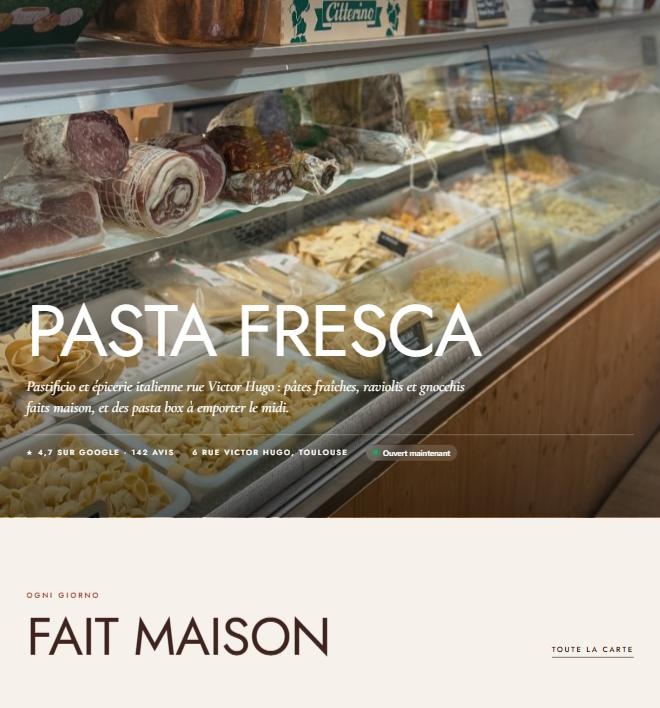
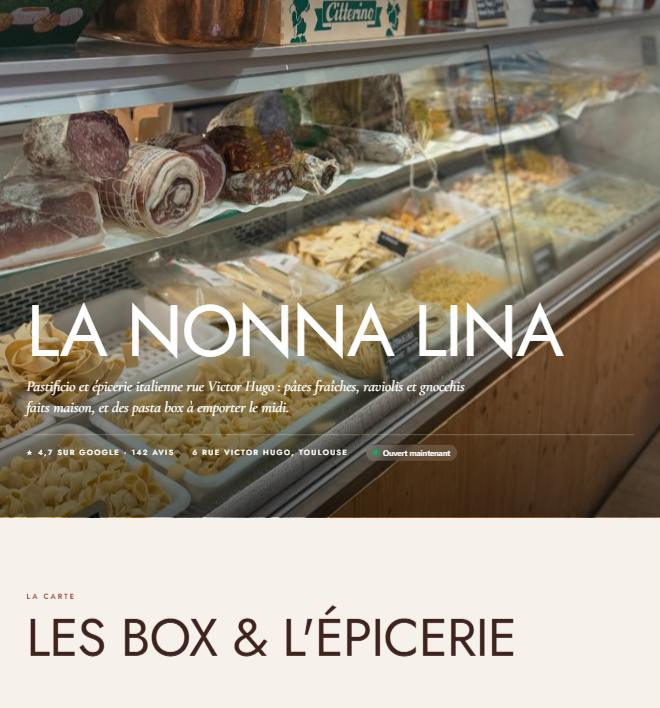
La Nonna Lina: client-test corrections (own photos only, no invented claims)

diff --git a/la-nonna-lina/v2/index.html b/la-nonna-lina/v2/index.html
@@ -150,21 +150,10 @@
 </div></header>
 <main id="top">
 <section class="hero" style="padding:0"><img src="../img/opt/g-pates-1600.jpg" srcset="../img/opt/g-pates-800.jpg 800w, ../img/opt/g-pates-1600.jpg 1600w" sizes="100vw" alt="Pâtes fraîches de La Nonna Lina" fetchpriority="high" decoding="async"><div class="wrap">
-  <h1>Pasta fresca</h1>
+  <h1>La Nonna Lina</h1>
   <p>Pastificio et épicerie italienne rue Victor Hugo : pâtes fraîches, raviolis et gnocchis faits maison, et des pasta box à emporter le midi.</p>
   <div class="line"><span>★ 4,7 sur Google · 142 avis</span><span>6 rue Victor Hugo, Toulouse</span><span class="open-badge"><i></i><span>Horaires</span></span></div>
 </div></section>
-
-<section><div class="wrap">
-  <div class="split"><div><div class="label reveal">Ogni giorno</div><h2 class="reveal">Fait maison</h2></div><a class="more" href="#carte">Toute la carte</a></div>
-  <div class="strip"><figure class="reveal"><div class="ph"><img src="../img/opt/g-pates-1600.jpg" srcset="../img/opt/g-pates-800.jpg 800w, ../img/opt/g-pates-1600.jpg 1600w" sizes="(max-width:900px) 70vw, 25vw" alt="Pâtes fraîches" loading="lazy" decoding="async"></div><figcaption><span>Pâtes fraîches</span><small>du jour</small></figcaption></figure><figure class="reveal"><div class="ph"><img src="../img/opt/ravioli-1600.jpg" srcset="../img/opt/ravioli-800.jpg 800w, ../img/opt/ravioli-1600.jpg 1600w" sizes="(max-width:900px) 70vw, 25vw" alt="Raviolis" loading="lazy" decoding="async"></div><figcaption><span>Raviolis</span><small>faits maison</small></figcaption></figure><figure class="reveal"><div class="ph"><img src="../img/opt/g-comptoir-1600.jpg" srcset="../img/opt/g-comptoir-800.jpg 800w, ../img/opt/g-comptoir-1600.jpg 1600w" sizes="(max-width:900px) 70vw, 25vw" alt="Salumi &amp; pâtes" loading="lazy" decoding="async"></div><figcaption><span>Salumi &amp; pâtes</span><small>au comptoir</small></figcaption></figure><figure class="reveal"><div class="ph"><img src="../img/opt/gnocchi-1600.jpg" srcset="../img/opt/gnocchi-800.jpg 800w, ../img/opt/gnocchi-1600.jpg 1600w" sizes="(max-width:900px) 70vw, 25vw" alt="Gnocchis" loading="lazy" decoding="async"></div><figcaption><span>Gnocchis</span><small>faits maison</small></figcaption></figure></div>
-</div></section>
-
-<section id="maison" style="padding-top:0"><div class="wrap story">
-  <div class="reveal"><img src="../img/opt/g-devanture-1600.jpg" srcset="../img/opt/g-devanture-800.jpg 800w, ../img/opt/g-devanture-1600.jpg 1600w" sizes="(max-width:900px) 100vw, 50vw" alt="La boutique La Nonna Lina, rue Victor Hugo" loading="lazy" decoding="async"></div>
-  <div class="reveal"><div class="label">Il pastificio</div><p class="big">Un petit bout d'Italie au centre de Toulouse, où l'on vient chercher ses pâtes comme chez la nonna.</p><p>Chez La Nonna Lina, tout est fait maison et cuisiné avec amour : pâtes fraîches et originales, raviolis, gnocchis, lasagnes, et une épicerie fine pleine de produits italiens choisis avec soin.</p></div>
-</div></section>
-
 <section class="carte-wrap" id="carte"><div class="wrap">
   <div class="label reveal">La carte</div><h2 class="reveal">Les box &amp; l'épicerie</h2>
   <div class="reveal"><div class="tabs" role="tablist" aria-label="Catégories de la carte">
@@ -178,14 +167,24 @@
   </div><div class="tab-panel" role="tabpanel" id="p-et-aussi" aria-labelledby="t-et-aussi" data-hide>
     <div class="panel-grid">
       <figure class="panel-img"><img src="../img/opt/g-comptoir-1600.jpg" srcset="../img/opt/g-comptoir-800.jpg 800w, ../img/opt/g-comptoir-1600.jpg 1600w" sizes="(max-width:900px) 100vw, 40vw" alt="Et aussi" loading="lazy" decoding="async"></figure>
-      <ul class="items"><li><div class="row"><span class="name">La boisson</span><span class="dots" aria-hidden="true"></span><span class="price">1 €</span></div></li><li><div class="row"><span class="name">Le dessert</span><span class="dots" aria-hidden="true"></span><span class="price">2,50 €</span></div></li><li><div class="row"><span class="name">Pâtes fraîches, raviolis, gnocchis</span></div><p class="desc">Faits maison, à cuisiner chez vous</p></li><li><div class="row"><span class="name">Épicerie fine italienne</span></div><p class="desc">Charcuterie, fromages, huiles, sauces, douceurs</p></li></ul>
+      <ul class="items"><li><div class="row"><span class="name">La boisson</span><span class="dots" aria-hidden="true"></span><span class="price">1 €</span></div></li><li><div class="row"><span class="name">Le dessert</span><span class="dots" aria-hidden="true"></span><span class="price">2,50 €</span></div></li><li><div class="row"><span class="name">Pâtes fraîches, raviolis, gnocchis</span></div><p class="desc">Faits maison, à cuisiner chez vous</p></li><li><div class="row"><span class="name">Sélection italienne</span></div><p class="desc">Charcuterie, fromages, huiles, sauces, douceurs</p></li></ul>
     </div>
   </div>
   <p class="menu-note">Box servies du mardi au vendredi, de 12 h à 14 h.</p></div>
 </div></section>
+<section><div class="wrap">
+  <div class="split"><div><div class="label reveal">Ogni giorno</div><h2 class="reveal">Fait maison</h2></div><a class="more" href="#carte">Toute la carte</a></div>
+  <div class="strip"><figure class="reveal"><div class="ph"><img src="../img/opt/g-pates-1600.jpg" srcset="../img/opt/g-pates-800.jpg 800w, ../img/opt/g-pates-1600.jpg 1600w" sizes="(max-width:900px) 70vw, 25vw" alt="Pâtes fraîches" loading="lazy" decoding="async"></div><figcaption><span>Pâtes fraîches</span><small>faites maison</small></figcaption></figure><figure class="reveal"><div class="ph"><img src="../img/opt/g-comptoir-1600.jpg" srcset="../img/opt/g-comptoir-800.jpg 800w, ../img/opt/g-comptoir-1600.jpg 1600w" sizes="(max-width:900px) 70vw, 25vw" alt="Le comptoir" loading="lazy" decoding="async"></div><figcaption><span>Le comptoir</span><small>salumi &amp; pâtes</small></figcaption></figure><figure class="reveal"><div class="ph"><img src="../img/opt/g-panier-1600.jpg" srcset="../img/opt/g-panier-800.jpg 800w, ../img/opt/g-panier-1600.jpg 1600w" sizes="(max-width:900px) 70vw, 25vw" alt="Produits italiens" loading="lazy" decoding="async"></div><figcaption><span>Produits italiens</span><small>sélectionnés</small></figcaption></figure><figure class="reveal"><div class="ph"><img src="../img/opt/g-boutique-1600.jpg" srcset="../img/opt/g-boutique-800.jpg 800w, ../img/opt/g-boutique-1600.jpg 1600w" sizes="(max-width:900px) 70vw, 25vw" alt="La boutique" loading="lazy" decoding="async"></div><figcaption><span>La boutique</span><small>rue Victor Hugo</small></figcaption></figure></div>
+</div></section>
+
+<section id="maison" style="padding-top:0"><div class="wrap story">
+  <div class="reveal"><img src="../img/opt/g-devanture-1600.jpg" srcset="../img/opt/g-devanture-800.jpg 800w, ../img/opt/g-devanture-1600.jpg 1600w" sizes="(max-width:900px) 100vw, 50vw" alt="La boutique La Nonna Lina, rue Victor Hugo" loading="lazy" decoding="async"></div>
+  <div class="reveal"><div class="label">Il pastificio</div><p class="big">Un petit bout d'Italie au centre de Toulouse, où l'on vient chercher ses pâtes comme chez la nonna.</p><p>Chez La Nonna Lina, tout est fait maison et cuisiné avec amour : pâtes fraîches et originales, raviolis, gnocchis, lasagnes, et une épicerie fine pleine de produits italiens choisis avec soin.</p></div>
+</div></section>
+
 
 <section class="quote" id="avis"><div class="wrap reveal">
-  <blockquote>“Incontestablement la meilleure épicerie italienne de Toulouse ! Des pâtes originales et hyper fraîches, des produits de qualité et une équipe super accueillante.”</blockquote><cite>Anaëlle M. · avis Google · 4,7/5 sur 142 avis</cite>
+  <blockquote>“Incontestablement la meilleure épicerie italienne de Toulouse ! Des pâtes originales et hyper fraîches, des produits de qualité et une équipe super accueillante.”</blockquote><cite>Anaëlle M. · avis Google · 4,7/5 sur 142 avis</cite><blockquote style="font-size:clamp(22px,2.8vw,34px);margin-top:46px">“Super magasin où l'on trouve des pâtes et raviolis frais. La qualité est au rendez-vous, on n'est jamais déçu.”</blockquote><cite>Jean-Marie B. · avis Google</cite>
 </div></section>
 
 <section id="infos"><div class="wrap visit">
@@ -196,8 +195,8 @@
   <div class="map reveal"><iframe title="Plan d'accès La Nonna Lina" loading="lazy" src="https://maps.google.com/maps?q=La%20Nonna%20Lina%2C%206%20rue%20Victor%20Hugo%2C%2031000%20Toulouse&z=16&output=embed"></iframe></div>
 </div></section>
 </main>
-<footer><div class="wrap"><span>© 2026 La Nonna Lina · 6 rue Victor Hugo, 31000 Toulouse</span><span>Pastificio · Épicerie italienne</span></div></footer>
-<p class="demo-note">Démo préparée pour La Nonna Lina par Uimad Studio. Ce n'est pas le site officiel. Photos de la fiche Google de La Nonna Lina (raviolis et gnocchis : photos d'illustration).</p>
+<footer><div class="wrap"><span>Maquette non publiée · La Nonna Lina · 6 rue Victor Hugo, 31000 Toulouse</span><span>Pastificio · Épicerie italienne</span></div></footer>
+<p class="demo-note">Démo préparée pour La Nonna Lina par Uimad Studio. Ce n'est pas le site officiel. Photos de la fiche Google de La Nonna Lina.</p>
 <nav class="actionbar" aria-label="Actions rapides"><a class="main" href="tel:+33534446197">Appeler la boutique</a><a class="alt" href="mailto:ciao@lanonnalina.com">Écrire</a><a class="alt" href="https://www.google.com/maps/search/?api=1&query=La%20Nonna%20Lina%2C%206%20rue%20Victor%20Hugo%2C%2031000%20Toulouse">Itinéraire</a></nav>
 <script>
 document.documentElement.classList.add("js");

diff --git a/la-nonna-lina/v3/index.html b/la-nonna-lina/v3/index.html
@@ -158,7 +158,7 @@
 <main id="top">
 <div class="wrap"><section class="hero">
   <div class="reveal">
-    <h1>Des pâtes fraîches<br><em>comme chez la nonna</em>,<br>à deux pas du Capitole</h1>
+    <h1>Des pâtes fraîches<br><em>comme chez la nonna</em></h1>
     <p class="lead">Pastificio et épicerie italienne rue Victor Hugo : pâtes fraîches, raviolis et gnocchis faits maison, et des pasta box à emporter le midi.</p>
     <div class="btns"><a class="btn main" href="#carte">Voir la carte</a><a class="btn alt" href="https://www.google.com/maps/search/?api=1&query=La%20Nonna%20Lina%2C%206%20rue%20Victor%20Hugo%2C%2031000%20Toulouse">Itinéraire</a></div>
     <div class="chips"><span>Fait maison</span><span>Pasta box 9 €</span><span>Raviolis &amp; gnocchis</span><span>Épicerie fine</span></div>
@@ -169,12 +169,12 @@
 </section></div>
 
 <section id="maison" style="padding-top:10px"><div class="wrap">
-  <h2 class="reveal">Au comptoir aujourd'hui</h2><p class="sub reveal">Pâtes fraîches, raviolis, gnocchis et produits italiens.</p>
-  <div class="cards"><article class="card reveal"><img src="../img/opt/g-pates-1600.jpg" srcset="../img/opt/g-pates-800.jpg 800w, ../img/opt/g-pates-1600.jpg 1600w" sizes="(max-width:900px) 92vw, 25vw" alt="Pâtes fraîches" loading="lazy" decoding="async"><div><b>Pâtes fraîches</b><span>Originales, à cuisiner le jour même.</span></div></article><article class="card reveal"><img src="../img/opt/ravioli-1600.jpg" srcset="../img/opt/ravioli-800.jpg 800w, ../img/opt/ravioli-1600.jpg 1600w" sizes="(max-width:900px) 92vw, 25vw" alt="Raviolis" loading="lazy" decoding="async"><div><b>Raviolis</b><span>Les préférés de nos clients.</span></div></article><article class="card reveal"><img src="../img/opt/g-comptoir-1600.jpg" srcset="../img/opt/g-comptoir-800.jpg 800w, ../img/opt/g-comptoir-1600.jpg 1600w" sizes="(max-width:900px) 92vw, 25vw" alt="Salumi &amp; formaggi" loading="lazy" decoding="async"><div><b>Salumi &amp; formaggi</b><span>La charcuterie et les fromages italiens.</span></div></article><article class="card reveal"><img src="../img/opt/gnocchi-1600.jpg" srcset="../img/opt/gnocchi-800.jpg 800w, ../img/opt/gnocchi-1600.jpg 1600w" sizes="(max-width:900px) 92vw, 25vw" alt="Gnocchis" loading="lazy" decoding="async"><div><b>Gnocchis</b><span>Faits maison.</span></div></article></div>
+  <h2 class="reveal">Au comptoir</h2><p class="sub reveal">Pâtes fraîches, raviolis, gnocchis et produits italiens.</p>
+  <div class="cards"><article class="card reveal"><img src="../img/opt/g-pates-1600.jpg" srcset="../img/opt/g-pates-800.jpg 800w, ../img/opt/g-pates-1600.jpg 1600w" sizes="(max-width:900px) 92vw, 25vw" alt="Pâtes fraîches" loading="lazy" decoding="async"><div><b>Pâtes fraîches</b><span>Faites maison.</span></div></article><article class="card reveal"><img src="../img/opt/g-comptoir-1600.jpg" srcset="../img/opt/g-comptoir-800.jpg 800w, ../img/opt/g-comptoir-1600.jpg 1600w" sizes="(max-width:900px) 92vw, 25vw" alt="Salumi &amp; formaggi" loading="lazy" decoding="async"><div><b>Salumi &amp; formaggi</b><span>La charcuterie et les fromages italiens.</span></div></article><article class="card reveal"><img src="../img/opt/g-panier-1600.jpg" srcset="../img/opt/g-panier-800.jpg 800w, ../img/opt/g-panier-1600.jpg 1600w" sizes="(max-width:900px) 92vw, 25vw" alt="Épicerie fine" loading="lazy" decoding="async"><div><b>Épicerie fine</b><span>Huiles, sauces, douceurs italiennes.</span></div></article><article class="card reveal"><img src="../img/opt/g-boutique-1600.jpg" srcset="../img/opt/g-boutique-800.jpg 800w, ../img/opt/g-boutique-1600.jpg 1600w" sizes="(max-width:900px) 92vw, 25vw" alt="La boutique" loading="lazy" decoding="async"><div><b>La boutique</b><span>6 rue Victor Hugo.</span></div></article></div>
 </div></section>
 
 <section class="menu-sec" id="carte"><div class="wrap">
-  <h2 class="reveal">Les box du midi</h2><p class="sub reveal">Box servies du mardi au vendredi, de 12 h à 14 h.</p>
+  <h2 class="reveal">La carte</h2><p class="sub reveal">Box du midi et épicerie, aux prix affichés en boutique.</p>
   <div class="reveal"><div class="tabs" role="tablist" aria-label="Catégories de la carte">
     <button class="tab" role="tab" id="t-les-box-du-midi" aria-controls="p-les-box-du-midi" aria-selected="true" tabindex="0">Les box du midi</button><button class="tab" role="tab" id="t-et-aussi" aria-controls="p-et-aussi" aria-selected="false" tabindex="-1">Et aussi</button>
   </div>
@@ -186,15 +186,15 @@
   </div><div class="tab-panel" role="tabpanel" id="p-et-aussi" aria-labelledby="t-et-aussi" data-hide>
     <div class="panel-grid">
       <figure class="panel-img"><img src="../img/opt/g-comptoir-1600.jpg" srcset="../img/opt/g-comptoir-800.jpg 800w, ../img/opt/g-comptoir-1600.jpg 1600w" sizes="(max-width:900px) 92vw, 40vw" alt="Et aussi" loading="lazy" decoding="async"></figure>
-      <ul class="items"><li><div class="row"><span class="name">La boisson</span><span class="dots" aria-hidden="true"></span><span class="price">1 €</span></div></li><li><div class="row"><span class="name">Le dessert</span><span class="dots" aria-hidden="true"></span><span class="price">2,50 €</span></div></li><li><div class="row"><span class="name">Pâtes fraîches, raviolis, gnocchis</span></div><p class="desc">Faits maison, à cuisiner chez vous</p></li><li><div class="row"><span class="name">Épicerie fine italienne</span></div><p class="desc">Charcuterie, fromages, huiles, sauces, douceurs</p></li></ul>
+      <ul class="items"><li><div class="row"><span class="name">La boisson</span><span class="dots" aria-hidden="true"></span><span class="price">1 €</span></div></li><li><div class="row"><span class="name">Le dessert</span><span class="dots" aria-hidden="true"></span><span class="price">2,50 €</span></div></li><li><div class="row"><span class="name">Pâtes fraîches, raviolis, gnocchis</span></div><p class="desc">Faits maison, à cuisiner chez vous</p></li><li><div class="row"><span class="name">Sélection italienne</span></div><p class="desc">Charcuterie, fromages, huiles, sauces, douceurs</p></li></ul>
     </div>
   </div>
   <p class="menu-note">Box servies du mardi au vendredi, de 12 h à 14 h.</p></div>
 </div></section>
 
 <section><div class="wrap">
-  <h2 class="reveal">Votre pasta box en 3 étapes</h2><p class="sub reveal">Du mardi au vendredi, de 12 h à 14 h.</p>
-  <div class="steps"><div class="reveal"><b>Choisissez</b>Pasta, lasagne, gnocchi ou ravioli box.</div><div class="reveal"><b>Ajoutez</b>Une boisson pour 1 €, un dessert pour 2,50 €.</div><div class="reveal"><b>Régalez-vous</b>Sur place ou à emporter, rue Victor Hugo.</div></div>
+  <h2 class="reveal">Votre pasta box en 3 étapes</h2><p class="sub reveal">Du mardi au vendredi, le midi.</p>
+  <div class="steps"><div class="reveal"><b>Choisissez</b>Pasta, lasagne, gnocchi ou ravioli box.</div><div class="reveal"><b>Ajoutez</b>Une boisson pour 1 €, un dessert pour 2,50 €.</div><div class="reveal"><b>À emporter</b>Rue Victor Hugo, prête à partir.</div></div>
 </div></section>
 
 <section id="avis" style="padding-top:0"><div class="wrap">
@@ -211,8 +211,8 @@
   <div class="map reveal"><iframe title="Plan d'accès La Nonna Lina" loading="lazy" src="https://maps.google.com/maps?q=La%20Nonna%20Lina%2C%206%20rue%20Victor%20Hugo%2C%2031000%20Toulouse&z=16&output=embed"></iframe></div>
 </div></section>
 </main>
-<footer><div class="wrap">© 2026 La Nonna Lina · 6 rue Victor Hugo, 31000 Toulouse</div></footer>
-<p class="demo-note">Démo préparée pour La Nonna Lina par Uimad Studio. Ce n'est pas le site officiel. Photos de la fiche Google de La Nonna Lina (raviolis et gnocchis : photos d'illustration).</p>
+<footer><div class="wrap">Maquette non publiée · La Nonna Lina · 6 rue Victor Hugo, 31000 Toulouse</div></footer>
+<p class="demo-note">Démo préparée pour La Nonna Lina par Uimad Studio. Ce n'est pas le site officiel. Photos de la fiche Google de La Nonna Lina.</p>
 <nav class="actionbar" aria-label="Actions rapides"><a class="main" href="tel:+33534446197">Appeler la boutique</a><a class="alt" href="mailto:ciao@lanonnalina.com">Écrire</a><a class="alt" href="https://www.google.com/maps/search/?api=1&query=La%20Nonna%20Lina%2C%206%20rue%20Victor%20Hugo%2C%2031000%20Toulouse">Itinéraire</a></nav>
 <script>
 document.documentElement.classList.add("js");

diff --git a/la-nonna-lina/index.html b/la-nonna-lina/index.html
@@ -184,7 +184,7 @@
     <div class="hero-ctas"><a class="cta" href="#carte">Découvrir la carte</a><a class="cta ghost" href="https://www.google.com/maps/search/?api=1&query=La%20Nonna%20Lina%2C%206%20rue%20Victor%20Hugo%2C%2031000%20Toulouse">Itinéraire</a></div>
     <div class="meta"><span><span class="stars" aria-hidden="true">★★★★★</span> 4,7/5 · 142 avis Google</span><span class="open-badge" style="--badge-bg:var(--paper)"><i></i><span>Horaires</span></span></div>
   </div>
-  <div class="arch reveal"><img src="img/opt/g-facade-1600.jpg" srcset="img/opt/g-facade-800.jpg 800w, img/opt/g-facade-1600.jpg 1600w" sizes="(max-width:860px) 90vw, 45vw" alt="Pâtes fraîches de La Nonna Lina" fetchpriority="high" decoding="async">
+  <div class="arch reveal"><img src="img/opt/g-facade-1600.jpg" srcset="img/opt/g-facade-800.jpg 800w, img/opt/g-facade-1600.jpg 1600w" sizes="(max-width:860px) 90vw, 45vw" alt="La boutique La Nonna Lina, rue Victor Hugo" fetchpriority="high" decoding="async">
     <div class="seal"><b>6 rue Victor Hugo</b>31000 Toulouse</div></div>
 </section>
 
@@ -213,14 +213,14 @@
   </div><div class="tab-panel" role="tabpanel" id="p-et-aussi" aria-labelledby="t-et-aussi" data-hide>
     <div class="panel-grid">
       <figure class="panel-img"><img src="img/opt/g-comptoir-1600.jpg" srcset="img/opt/g-comptoir-800.jpg 800w, img/opt/g-comptoir-1600.jpg 1600w" sizes="(max-width:860px) 100vw, 40vw" alt="Et aussi" loading="lazy" decoding="async"></figure>
-      <ul class="items"><li><div class="row"><span class="name">La boisson</span><span class="dots" aria-hidden="true"></span><span class="price">1 €</span></div></li><li><div class="row"><span class="name">Le dessert</span><span class="dots" aria-hidden="true"></span><span class="price">2,50 €</span></div></li><li><div class="row"><span class="name">Pâtes fraîches, raviolis, gnocchis</span></div><p class="desc">Faits maison, à cuisiner chez vous</p></li><li><div class="row"><span class="name">Épicerie fine italienne</span></div><p class="desc">Charcuterie, fromages, huiles, sauces, douceurs</p></li></ul>
+      <ul class="items"><li><div class="row"><span class="name">La boisson</span><span class="dots" aria-hidden="true"></span><span class="price">1 €</span></div></li><li><div class="row"><span class="name">Le dessert</span><span class="dots" aria-hidden="true"></span><span class="price">2,50 €</span></div></li><li><div class="row"><span class="name">Pâtes fraîches, raviolis, gnocchis</span></div><p class="desc">Faits maison, à cuisiner chez vous</p></li><li><div class="row"><span class="name">Sélection italienne</span></div><p class="desc">Charcuterie, fromages, huiles, sauces, douceurs</p></li></ul>
     </div>
   </div>
   <p class="menu-note">Box servies du mardi au vendredi, de 12 h à 14 h.</p></div>
 </div></section>
 
 <section style="padding-top:0"><div class="wrap gallery">
-  <figure class="reveal"><img src="img/opt/g-pates-1600.jpg" srcset="img/opt/g-pates-800.jpg 800w, img/opt/g-pates-1600.jpg 1600w" sizes="(max-width:860px) 50vw, 33vw" alt="Pâtes fraîches" loading="lazy" decoding="async"></figure><figure class="reveal"><img src="img/opt/g-comptoir-1600.jpg" srcset="img/opt/g-comptoir-800.jpg 800w, img/opt/g-comptoir-1600.jpg 1600w" sizes="(max-width:860px) 50vw, 33vw" alt="Le comptoir" loading="lazy" decoding="async"></figure><figure class="reveal"><img src="img/opt/g-facade-1600.jpg" srcset="img/opt/g-facade-800.jpg 800w, img/opt/g-facade-1600.jpg 1600w" sizes="(max-width:860px) 50vw, 33vw" alt="La boutique" loading="lazy" decoding="async"></figure><figure class="reveal"><img src="img/opt/ravioli-1600.jpg" srcset="img/opt/ravioli-800.jpg 800w, img/opt/ravioli-1600.jpg 1600w" sizes="(max-width:860px) 50vw, 33vw" alt="Raviolis" loading="lazy" decoding="async"></figure><figure class="reveal"><img src="img/opt/gnocchi-1600.jpg" srcset="img/opt/gnocchi-800.jpg 800w, img/opt/gnocchi-1600.jpg 1600w" sizes="(max-width:860px) 50vw, 33vw" alt="Gnocchis" loading="lazy" decoding="async"></figure>
+  <figure class="reveal"><img src="img/opt/g-pates-1600.jpg" srcset="img/opt/g-pates-800.jpg 800w, img/opt/g-pates-1600.jpg 1600w" sizes="(max-width:860px) 50vw, 33vw" alt="Pâtes fraîches" loading="lazy" decoding="async"></figure><figure class="reveal"><img src="img/opt/g-comptoir-1600.jpg" srcset="img/opt/g-comptoir-800.jpg 800w, img/opt/g-comptoir-1600.jpg 1600w" sizes="(max-width:860px) 50vw, 33vw" alt="Le comptoir" loading="lazy" decoding="async"></figure><figure class="reveal"><img src="img/opt/g-facade-1600.jpg" srcset="img/opt/g-facade-800.jpg 800w, img/opt/g-facade-1600.jpg 1600w" sizes="(max-width:860px) 50vw, 33vw" alt="La boutique" loading="lazy" decoding="async"></figure><figure class="reveal"><img src="img/opt/g-panier-1600.jpg" srcset="img/opt/g-panier-800.jpg 800w, img/opt/g-panier-1600.jpg 1600w" sizes="(max-width:860px) 50vw, 33vw" alt="Produits italiens" loading="lazy" decoding="async"></figure><figure class="reveal"><img src="img/opt/g-boutique-1600.jpg" srcset="img/opt/g-boutique-800.jpg 800w, img/opt/g-boutique-1600.jpg 1600w" sizes="(max-width:860px) 50vw, 33vw" alt="L'entrée" loading="lazy" decoding="async"></figure>
 </div></section>
 
 <section id="avis" style="padding-top:0"><div class="wrap">
@@ -242,8 +242,8 @@
 </div></section>
 </main>
 
-<footer><div class="wrap"><span>© 2026 La Nonna Lina · 6 rue Victor Hugo, 31000 Toulouse</span><span><a href="tel:+33534446197">05 34 44 61 97</a></span></div></footer>
-<p class="demo-note">Démo préparée pour La Nonna Lina par Uimad Studio. Ce n'est pas le site officiel. Photos de la fiche Google de La Nonna Lina (raviolis et gnocchis : photos d'illustration).</p>
+<footer><div class="wrap"><span>Maquette non publiée · La Nonna Lina · 6 rue Victor Hugo, 31000 Toulouse</span><span><a href="tel:+33534446197">05 34 44 61 97</a></span></div></footer>
+<p class="demo-note">Démo préparée pour La Nonna Lina par Uimad Studio. Ce n'est pas le site officiel. Photos de la fiche Google de La Nonna Lina.</p>
 <nav class="actionbar" aria-label="Actions rapides"><a class="main" href="tel:+33534446197">Appeler la boutique</a><a class="alt" href="mailto:ciao@lanonnalina.com">Écrire</a><a class="alt" href="https://www.google.com/maps/search/?api=1&query=La%20Nonna%20Lina%2C%206%20rue%20Victor%20Hugo%2C%2031000%20Toulouse">Itinéraire</a></nav>
 <script>
 document.documentElement.classList.add("js");

diff --git a/maison-monge/v2/index.html b/maison-monge/v2/index.html
@@ -188,7 +188,6 @@
   </div>
   <p class="menu-note">Prix affichés en boutique.</p></div>
 </div></section>
-
 <section class="quote" id="avis"><div class="wrap reveal">
   <blockquote>“Une boulangerie pâtisserie exceptionnelle ! Un service aimable, dévoué et une ambiance parisienne qui vous donne envie d'y rester toute la matinée.”</blockquote><cite>Ben N. · avis Google · 4,8/5 sur 102 avis</cite>
 </div></section>
@@ -201,7 +200,7 @@
   <div class="map reveal"><iframe title="Plan d'accès Maison Monge" loading="lazy" src="https://maps.google.com/maps?q=Maison%20Monge%2C%2070%20rue%20Monge%2C%2075005%20Paris&z=16&output=embed"></iframe></div>
 </div></section>
 </main>
-<footer><div class="wrap"><span>© 2026 Maison Monge · 70 rue Monge, 75005 Paris</span><span>Pâtisserie · Chocolaterie · Boulangerie</span></div></footer>
+<footer><div class="wrap"><span>Maquette non publiée · Maison Monge · 70 rue Monge, 75005 Paris</span><span>Pâtisserie · Chocolaterie · Boulangerie</span></div></footer>
 <p class="demo-note">Démo préparée pour Maison Monge par Uimad Studio. Ce n'est pas le site officiel. Photos de la fiche Google de Maison Monge.</p>
 <nav class="actionbar" aria-label="Actions rapides"><a class="main" href="mailto:commande@maisonmonge.fr">Nous écrire</a><a class="alt" href="tel:+33143314066">Appeler</a><a class="alt" href="https://www.google.com/maps/search/?api=1&query=Maison%20Monge%2C%2070%20rue%20Monge%2C%2075005%20Paris">Itinéraire</a></nav>
 <script>

diff --git a/maison-monge/v3/index.html b/maison-monge/v3/index.html
@@ -216,7 +216,7 @@
   <div class="map reveal"><iframe title="Plan d'accès Maison Monge" loading="lazy" src="https://maps.google.com/maps?q=Maison%20Monge%2C%2070%20rue%20Monge%2C%2075005%20Paris&z=16&output=embed"></iframe></div>
 </div></section>
 </main>
-<footer><div class="wrap">© 2026 Maison Monge · 70 rue Monge, 75005 Paris</div></footer>
+<footer><div class="wrap">Maquette non publiée · Maison Monge · 70 rue Monge, 75005 Paris</div></footer>
 <p class="demo-note">Démo préparée pour Maison Monge par Uimad Studio. Ce n'est pas le site officiel. Photos de la fiche Google de Maison Monge.</p>
 <nav class="actionbar" aria-label="Actions rapides"><a class="main" href="mailto:commande@maisonmonge.fr">Nous écrire</a><a class="alt" href="tel:+33143314066">Appeler</a><a class="alt" href="https://www.google.com/maps/search/?api=1&query=Maison%20Monge%2C%2070%20rue%20Monge%2C%2075005%20Paris">Itinéraire</a></nav>
 <script>

diff --git a/maison-monge/index.html b/maison-monge/index.html
@@ -247,7 +247,7 @@
 </div></section>
 </main>
 
-<footer><div class="wrap"><span>© 2026 Maison Monge · 70 rue Monge, 75005 Paris</span><span><a href="tel:+33143314066">01 43 31 40 66</a></span></div></footer>
+<footer><div class="wrap"><span>Maquette non publiée · Maison Monge · 70 rue Monge, 75005 Paris</span><span><a href="tel:+33143314066">01 43 31 40 66</a></span></div></footer>
 <p class="demo-note">Démo préparée pour Maison Monge par Uimad Studio. Ce n'est pas le site officiel. Photos de la fiche Google de Maison Monge.</p>
 <nav class="actionbar" aria-label="Actions rapides"><a class="main" href="mailto:commande@maisonmonge.fr">Nous écrire</a><a class="alt" href="tel:+33143314066">Appeler</a><a class="alt" href="https://www.google.com/maps/search/?api=1&query=Maison%20Monge%2C%2070%20rue%20Monge%2C%2075005%20Paris">Itinéraire</a></nav>
 <script>
